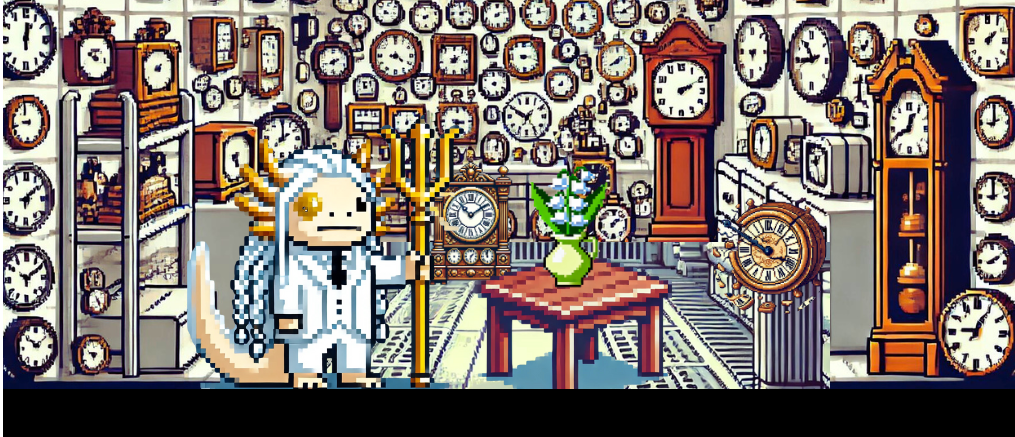
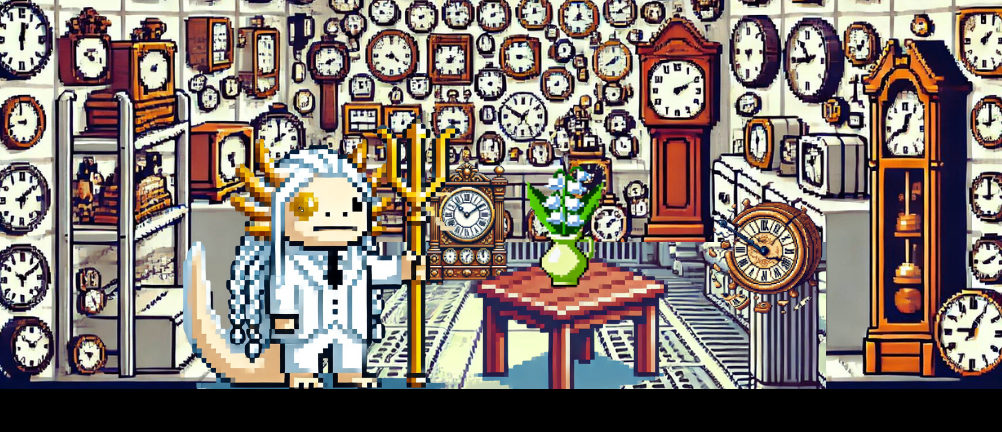
size

diff --git a/index.html b/index.html
@@ -28,7 +28,7 @@
         }
 
         function setup() {
-            let canvas = createCanvas(1015, 437);
+            let canvas = createCanvas(1002, 432);
             canvas.parent(document.body);
         }
 
